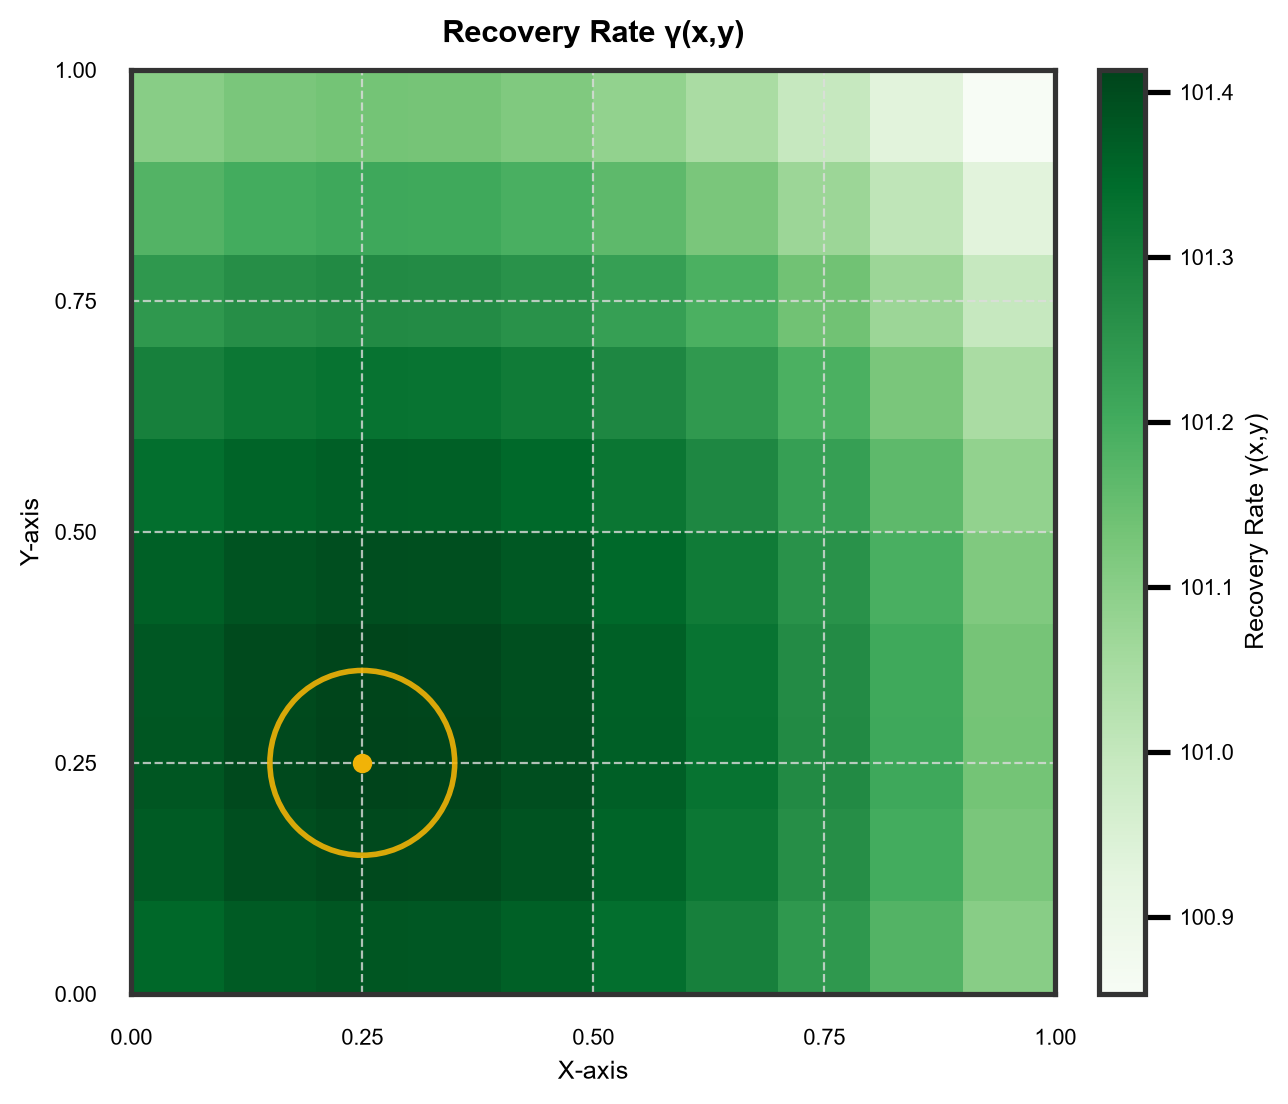
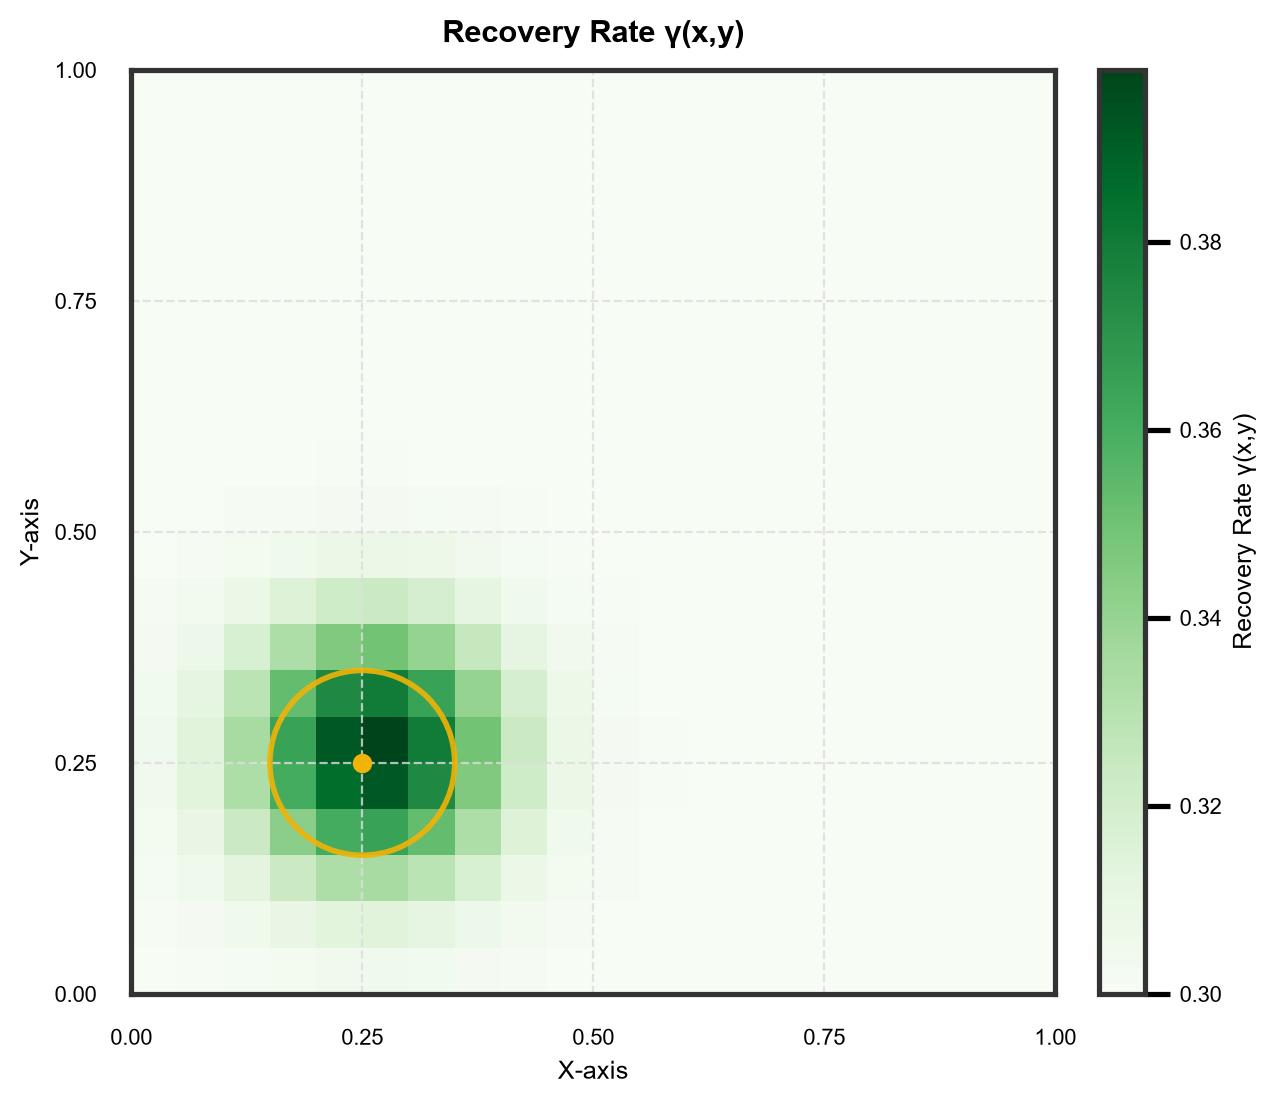
small tweaks

diff --git a/src/core/utils.py b/src/core/utils.py
@@ -100,7 +100,7 @@ def initial_conditions(params, epsilon=0.1, center=(0.1, 0.1), radius=0.08):
     """
     Build IC vectors satisfying ∫∫(S0+E0+I0+R0)dΩ = N exactly
     under the 2D trapezoidal rule.
-    epsilon : prcentage of initial ill people
+    epsilon : fraction of N seeded as initial infected mass
     """
     X, Y = params.make_grid()
     h = params.h
@@ -108,20 +108,28 @@ def initial_conditions(params, epsilon=0.1, center=(0.1, 0.1), radius=0.08):
     # Step 1: localized Gaussian blob centered near the high-risk corner
     dist_sq = (X - center[0])**2 + (Y - center[1])**2
     I_patch = np.exp(-dist_sq / (2 * radius**2))
-    I_patch /= np.trapezoid(np.trapezoid(I_patch, dx=h, axis=1), dx=h)
+    I_patch /= mass(I_patch, h)  # use the same quadrature as everything else
 
-    # Step 2: scale to the requested peak infection amplitude
+    # Step 2: scale to the requested total infected mass
     I0 = epsilon * params.N * I_patch
     E0 = 0.3 * I0
-    R0 = np.zeros_like(I0)
+    Rec0 = np.zeros_like(I0)  # recovered compartment; renamed, R0 means reproduction number here
 
     # Step 3: uniform S0 so that total mass = N exactly
     ones_integral = mass(np.ones_like(I0), h)
-    target_S_mass = params.N - mass(E0 + I0 + R0, h)
+    target_S_mass = params.N - mass(E0 + I0 + Rec0, h)
     S0 = (target_S_mass / ones_integral) * np.ones_like(I0)
 
-    total_mass = mass(S0 + E0 + I0 + R0, h)
+    # Check what actually matters: I0's mass hit the target independent of
+    # the algebraic S0 solve below, which is exact by construction and can't fail.
+    I0_mass_err = abs(mass(I0, h) - epsilon * params.N)
     rel_tol = 1e-6
+    assert I0_mass_err < rel_tol * max(params.N, 1.0), \
+        f"I0 mass error = {I0_mass_err:.2e} " \
+        f"(relative: {I0_mass_err/params.N:.2e}, should be < {rel_tol:.0e}); " \
+        f"check I_patch normalization matches mass()'s quadrature"
+
+    total_mass = mass(S0 + E0 + I0 + Rec0, h)
     assert abs(total_mass - params.N) < rel_tol * max(params.N, 1.0), \
         f"IC mass error = {abs(total_mass - params.N):.2e} " \
         f"(relative: {abs(total_mass - params.N)/params.N:.2e}, should be < {rel_tol:.0e})"
@@ -129,4 +137,4 @@ def initial_conditions(params, epsilon=0.1, center=(0.1, 0.1), radius=0.08):
     assert (S0 > 0).all(), "S0 uniform background went negative — epsilon too large?"
     assert (I0 >= 0).all() and (E0 >= 0).all(), "Positivity violated in I0/E0"
 
-    return np.concatenate([S0.ravel(), E0.ravel(), I0.ravel(), R0.ravel()])
+    return np.concatenate([S0.ravel(), E0.ravel(), I0.ravel(), Rec0.ravel()])

diff --git a/src/core/SEIRSParameters.py b/src/core/SEIRSParameters.py
@@ -69,10 +69,8 @@ class SEIRSParameters:
         sigma: identical in x and y
         """
         X, Y = self.make_grid()
-        B = constant + coeff*( ( 1/sigma**2 )
-                           * np.exp(
-                               -( 1/2*sigma**2 ) * ( (X - mu[0])**2 + (Y - mu[1])**2 )
-                                )
+        B = constant + coeff * ( ( 1/(sigma**2) )
+                           * np.exp(-(1/(2*sigma**2)) * ((X - mu[0])**2 + (Y - mu[1])**2))
                         )
         return B
 